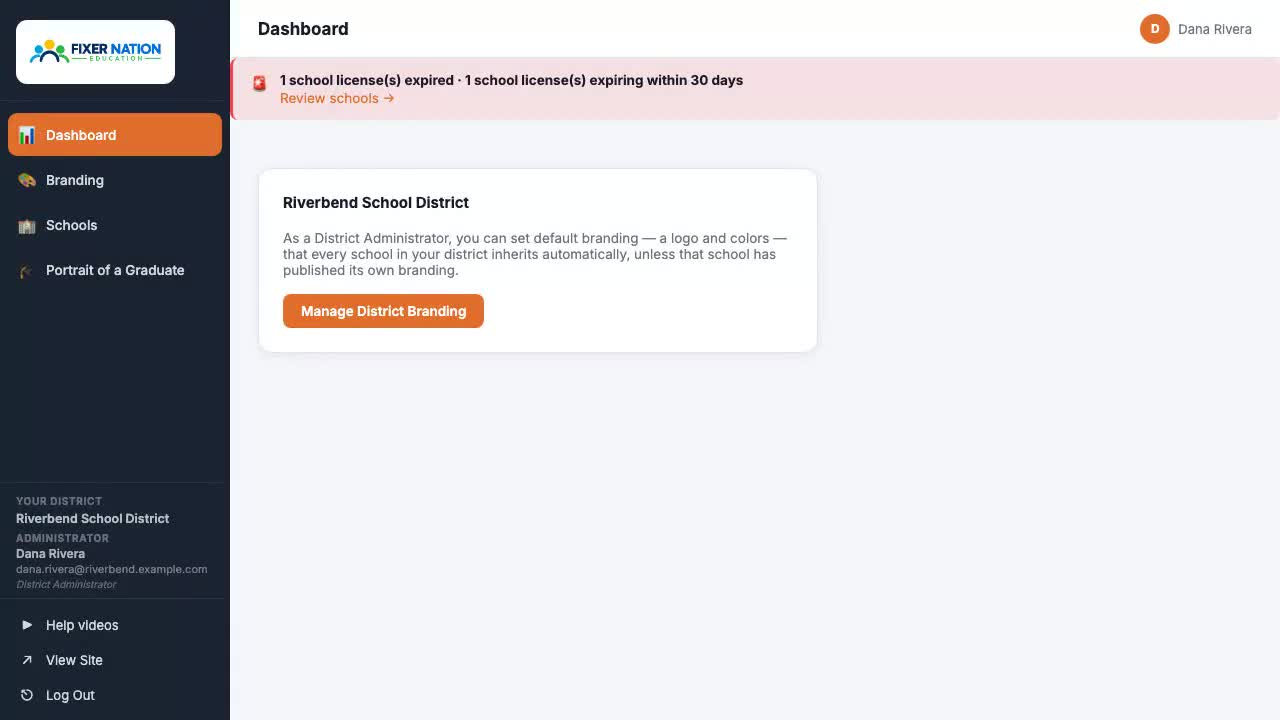
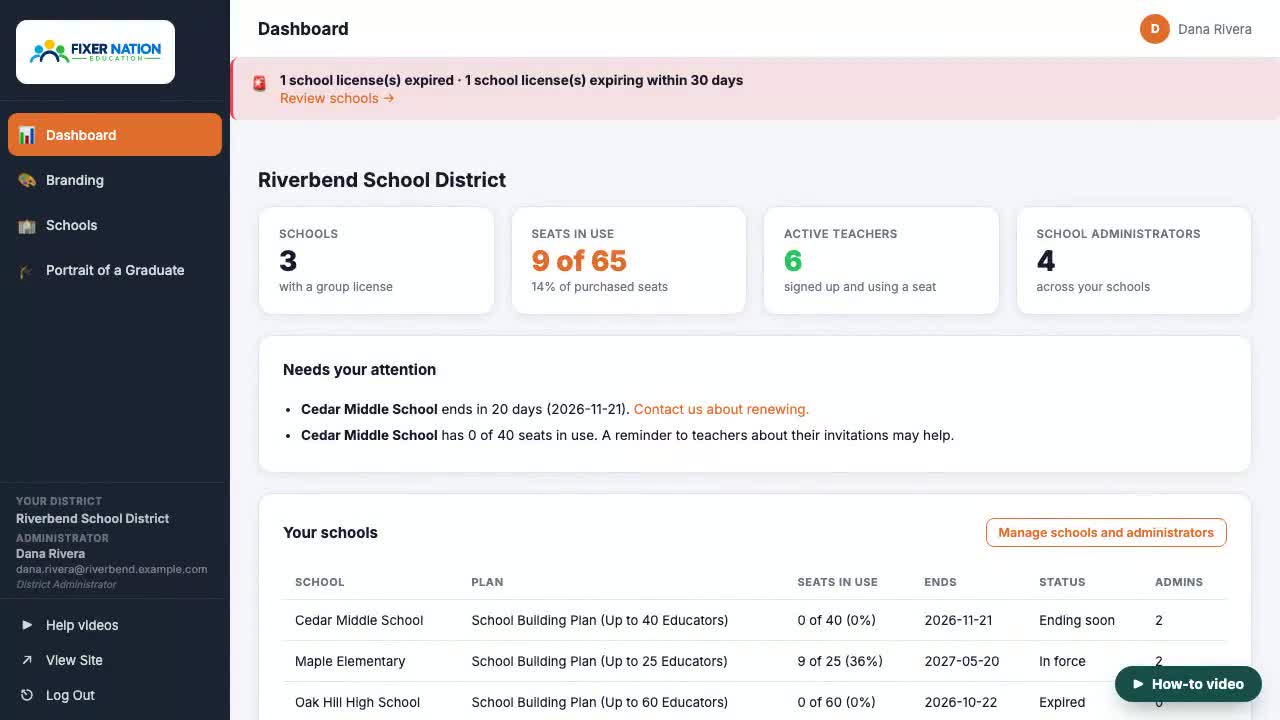
Release 71: publish C1 video, help-videos cache v=8, changelog

diff --git a/help-videos.js b/help-videos.js
@@ -78,7 +78,7 @@
     // ---- District administrators
     { id: 'C1', group: 'district-admins', topic: 'Your portal', title: 'A tour of the District Admin portal',
       summary: 'The dashboard, the menu, the license banner and switching districts.',
-      pages: ['district-admin-dashboard.html'], url: 'https://res.cloudinary.com/x9ll3a3t/video/upload/v1793391643/fne/help/C1.mp4', captions: '/help-assets/C1.vtt', poster: '/help-assets/C1.jpg' },
+      pages: ['district-admin-dashboard.html'], url: 'https://res.cloudinary.com/x9ll3a3t/video/upload/v1793579769/fne/help/C1.mp4', captions: '/help-assets/C1.vtt', poster: '/help-assets/C1.jpg' },
     { id: 'C2', group: 'district-admins', topic: 'Branding', title: 'Set district-wide branding',
       summary: 'Set the logo and colors every school in your district starts with.',
       pages: ['district-admin-branding.html'], url: 'https://res.cloudinary.com/x9ll3a3t/video/upload/v1793391645/fne/help/C2.mp4', captions: '/help-assets/C2.vtt', poster: '/help-assets/C2.jpg' },

diff --git a/school-admin-invitations.html b/school-admin-invitations.html
@@ -410,6 +410,6 @@ document.addEventListener('DOMContentLoaded', function () {
 
 function esc(str) { return String(str == null ? '' : str).replace(/&/g,'&amp;').replace(/</g,'&lt;').replace(/>/g,'&gt;').replace(/"/g,'&quot;').replace(/'/g,'&#39;'); }
 </script>
-<script src="help-videos.js?v=7" defer></script>
+<script src="help-videos.js?v=8" defer></script>
 </body>
 </html>

diff --git a/district-admin-dashboard.html b/district-admin-dashboard.html
@@ -138,6 +138,6 @@ function card(label, value, sub, cls) {
   return '<div class="sa-stat-card ' + cls + '"><div class="label">' + esc(label) + '</div><div class="value">' + esc(value) + '</div><div class="sub">' + esc(sub) + '</div></div>';
 }
 </script>
-<script src="help-videos.js?v=7" defer></script>
+<script src="help-videos.js?v=8" defer></script>
 </body>
 </html>

diff --git a/district-admin-schools.html b/district-admin-schools.html
@@ -306,6 +306,6 @@ async function submitAssign() {
 
 function esc(str) { return String(str == null ? '' : str).replace(/&/g,'&amp;').replace(/</g,'&lt;').replace(/>/g,'&gt;').replace(/"/g,'&quot;').replace(/'/g,'&#39;'); }
 </script>
-<script src="help-videos.js?v=7" defer></script>
+<script src="help-videos.js?v=8" defer></script>
 </body>
 </html>

diff --git a/school-admin-dashboard.html b/school-admin-dashboard.html
@@ -165,6 +165,6 @@ function renderDashboard(d) {
 
 function esc(str) { return String(str == null ? '' : str).replace(/&/g,'&amp;').replace(/</g,'&lt;').replace(/>/g,'&gt;').replace(/"/g,'&quot;').replace(/'/g,'&#39;'); }
 </script>
-<script src="help-videos.js?v=7" defer></script>
+<script src="help-videos.js?v=8" defer></script>
 </body>
 </html>

diff --git a/school-admin-org.html b/school-admin-org.html
@@ -261,6 +261,6 @@ function info(label, value) {
 
 function esc(str) { return String(str == null ? '' : str).replace(/&/g,'&amp;').replace(/</g,'&lt;').replace(/>/g,'&gt;').replace(/"/g,'&quot;').replace(/'/g,'&#39;'); }
 </script>
-<script src="help-videos.js?v=7" defer></script>
+<script src="help-videos.js?v=8" defer></script>
 </body>
 </html>

diff --git a/school-admin-reports.html b/school-admin-reports.html
@@ -302,6 +302,6 @@ function exportCsv(type) {
 
 function esc(str) { return String(str == null ? '' : str).replace(/&/g,'&amp;').replace(/</g,'&lt;').replace(/>/g,'&gt;').replace(/"/g,'&quot;').replace(/'/g,'&#39;'); }
 </script>
-<script src="help-videos.js?v=7" defer></script>
+<script src="help-videos.js?v=8" defer></script>
 </body>
 </html>

diff --git a/parent-invite-accept.html b/parent-invite-accept.html
@@ -339,6 +339,6 @@ function showError(msg) {
 function show(id) { document.getElementById(id).style.display = ''; }
 function hide(id) { document.getElementById(id).style.display = 'none'; }
 </script>
-<script src="help-videos.js?v=7" defer></script>
+<script src="help-videos.js?v=8" defer></script>
 </body>
 </html>

diff --git a/school-invite-accept.html b/school-invite-accept.html
@@ -391,6 +391,6 @@ function showError(msg) {
 function show(id) { document.getElementById(id).style.display = ''; }
 function hide(id) { document.getElementById(id).style.display = 'none'; }
 </script>
-<script src="help-videos.js?v=7" defer></script>
+<script src="help-videos.js?v=8" defer></script>
 </body>
 </html>

diff --git a/help-videos.html b/help-videos.html
@@ -78,7 +78,7 @@
 <script src="nav.js?v=16"></script>
 <script src="site-auth.js?v=10"></script>
 <script src="footer.js?v=9"></script>
-<script src="help-videos.js?v=7"></script>
+<script src="help-videos.js?v=8"></script>
 <script>
 // Jump links for the groups that actually have something to show.
 (function () {

diff --git a/become-an-affiliate.html b/become-an-affiliate.html
@@ -289,6 +289,6 @@ document.getElementById('affiliateForm').addEventListener('submit', async functi
 <script src="cart.js"></script>
 
 <script src="footer.js?v=9"></script>
-<script src="help-videos.js?v=7" defer></script>
+<script src="help-videos.js?v=8" defer></script>
 </body>
 </html>

diff --git a/reset-password.html b/reset-password.html
@@ -140,6 +140,6 @@ document.getElementById('resetForm').addEventListener('submit', async function (
 
 <footer></footer>
 <script src="footer.js?v=9"></script>
-<script src="help-videos.js?v=7" defer></script>
+<script src="help-videos.js?v=8" defer></script>
 </body>
 </html>
